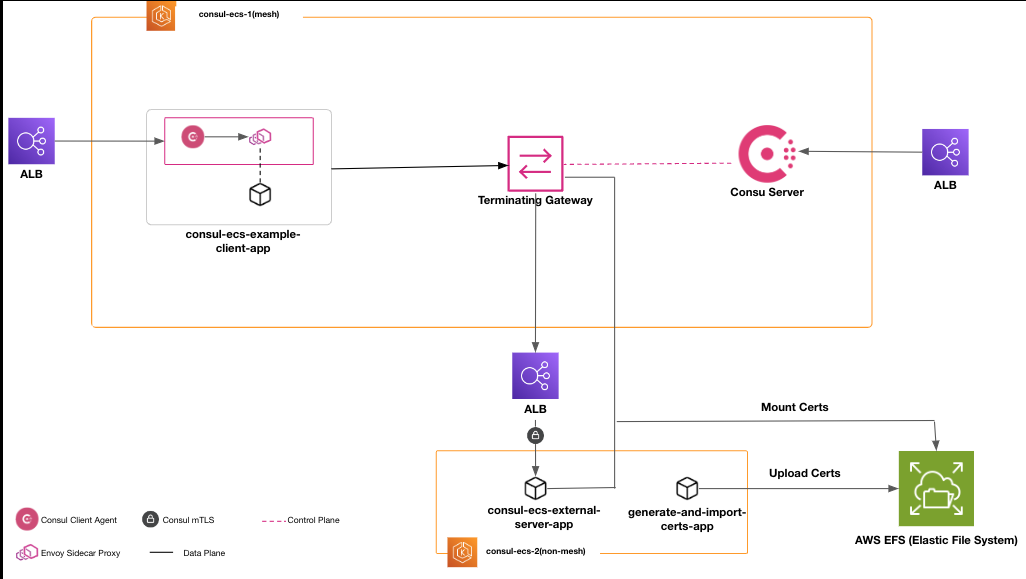
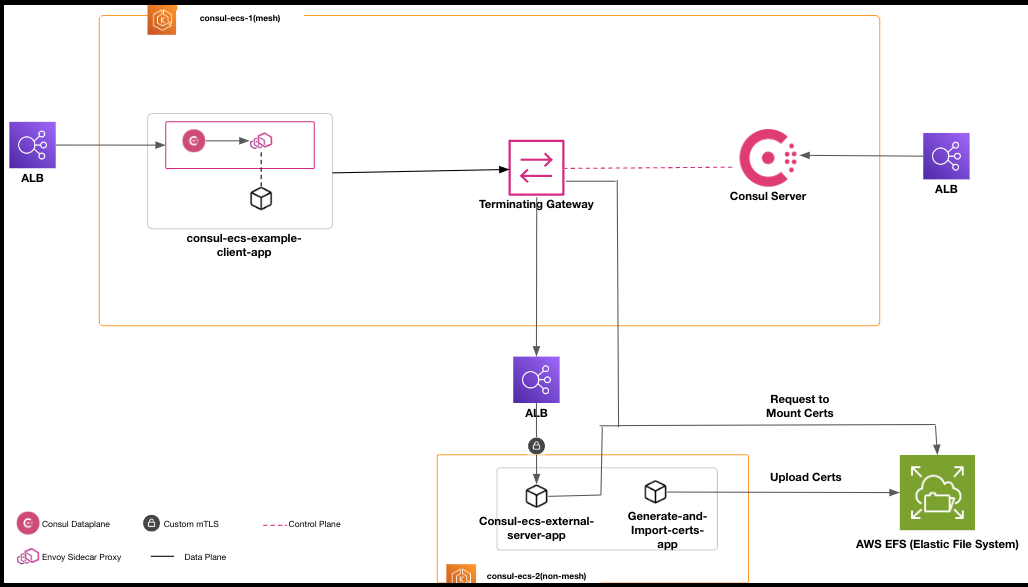
[NET-6931] - importing efs file system using data source

Changed region(s): [[0.0, 0.0, 1.0, 1.0], [0.2495, 0.8705, 0.3431, 0.9016], [0.1559, 0.9326, 0.2183, 0.9637]]

diff --git a/examples/terminating-gateway-tls/README.md b/examples/terminating-gateway-tls/README.md
@@ -1,8 +1,15 @@
-# Terminating Gateways on ECS.
+# Terminating Gateways with mTLS on ECS.
 
-This example demonstrates accessing non mesh destinations services from mesh tasks with the help of terminating gateways deployed as ECS tasks.
+This example demonstrates accessing non mesh destinations services from mesh tasks with the help of terminating gateways deployed as ECS tasks over TLS/mTLS.
 
-There are instructions below on how to interact with this setup.
+For the terminating gateway to be able to use TLS/mTLS, certificates trusted by the external server application must be uploaded to the gateway volume. 
+After the volume mount is successful, a `consul_config_entry` needs to be created to tell the gateway when to use the certs.
+If CA cert is configured in the `consul_config_entry`, then the gateway will use mTLS to communicate with the external server application otherwise it will use TLS.
+The certs need to be present in the external server application's task as well. So, that it can verify the gateway's identity.
+After this setup is complete, any http calls originating from the client application (inside the mesh) to external service will go through the terminating gateway.
+The terminating gateway will then forward the request to the external server application's task over TLS/mTLS, using the certs configured earlier.
+
+[Terminating Gateway & TLS](https://developer.hashicorp.com/consul/docs/connect/gateways/terminating-gateway)
 
 ![Example architecture](https://github.com/hashicorp/terraform-aws-consul-ecs/blob/main/_docs/terminating-gateway-external-server-tls.png?raw=true)
 
@@ -64,28 +71,6 @@ Changes to Outputs:
 
 Type `yes` to apply the changes.
 
-once the apply is complete, certs would have been uploaded to the efs volume.
-change the `variables.tf` file to point to the correct efs volume id.
-
-Add the following to the `variables.tf` file
-```variable "volumes" {
-description = "List of volumes to include in the aws_ecs_task_definition resource."
-type        = any
-default     = [
-    {
-      name =      "certs-efs"
-      host_path =  "<mount_path_inside_container>"
-      efs_volume_configuration = {
-          file_system_id = "<your_file_system_id>"
-          root_directory = "<path_inside_file_system_where_certs_are_present>"
-          iam = "ENABLED"
-        }
-    }
-]
-}
-```
-and set `tgw_certs_enabled = true` in `variables.tf` file.
-
 Then apply the Terraform passing in a name and your IP again.
 
 ```shell
@@ -104,6 +89,8 @@ Outputs:
 consul_server_bootstrap_token = <sensitive>
 consul_server_lb_address = "http://consul-ecs-consul-server-1772347952.us-east-1.elb.amazonaws.com:8500"
 mesh_client_lb_address = "http://consul-ecs-example-client-app-111111111.us-east-1.elb.amazonaws.com:9090/ui"
+certs_efs_file_system_address = "fs-12345678"
+non_mesh_server_lb_dns_name = "consul-ecs-external-server-app-111111111.us-east-1.elb.amazonaws.com"
 ```
 
 ### Explore
